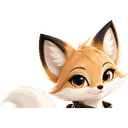
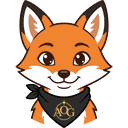
Ganti maskot jadi gaya 2D flat vector dengan pose berbeda tiap halaman

diff --git a/app.py b/app.py
@@ -637,27 +637,30 @@ st.markdown(
       }
 
       /* ---------- Maskot: mengintip di pojok kanan bawah ---------- */
+      /* Pose peek: badan bawah terpotong & kaki memegang tepi, jadi maskot
+         benar-benar muncul dari balik tepi bawah layar. */
       .maskot-peek {
-        position:fixed; right:10px; bottom:86px; z-index:998;
-        width:96px; pointer-events:none;
-        filter: drop-shadow(0 10px 18px rgba(25,27,32,.30));
-        animation: maskotIntip 7s ease-in-out infinite;
+        position:fixed; right:14px; bottom:74px; z-index:1;
+        width:104px; pointer-events:none; user-select:none;
+        filter: drop-shadow(0 -4px 14px rgba(25,27,32,.26));
+        animation: maskotIntip 9s ease-in-out infinite;
         transform-origin: 50% 100%;
       }
       @keyframes maskotIntip {
-        0%, 8%    { transform: translateY(78%) rotate(6deg); opacity:.0; }
-        16%, 46%  { transform: translateY(6%) rotate(0deg);  opacity:1; }
-        54%, 62%  { transform: translateY(0%) rotate(-3deg); opacity:1; }
-        74%, 100% { transform: translateY(78%) rotate(6deg); opacity:0; }
+        0%, 6%    { transform: translateY(100%) rotate(0deg); }
+        14%, 34%  { transform: translateY(14%)  rotate(0deg); }
+        40%, 52%  { transform: translateY(8%)   rotate(-4deg); }
+        58%, 70%  { transform: translateY(14%)  rotate(3deg); }
+        82%, 100% { transform: translateY(100%) rotate(0deg); }
       }
       @media (max-width:600px) {
-        .maskot-peek { width:72px; bottom:78px; right:4px; }
+        .maskot-peek { width:74px; right:2px; bottom:68px; }
         .maskot-sambutan img { width:118px; }
         .maskot-balon { max-width:168px; font-size:.73rem; margin-bottom:26px; }
       }
       @media (prefers-reduced-motion: reduce) {
         .maskot-sambutan img, .maskot-balon { animation:none !important; }
-        .maskot-peek { animation:none !important; transform:translateY(6%); opacity:1; }
+        .maskot-peek { animation:none !important; transform:translateY(14%); }
       }
     </style>
     """,

diff --git a/IKLAN.md b/IKLAN.md
@@ -110,10 +110,13 @@ MASKOT_SAPAAN = "Halo! Aku Aogi, temanmu di room ini. Yuk masuk 👋"
 
 | File | Ukuran | Dipakai untuk |
 |---|---|---|
-| `maskot-avatar.png` | 128×128 | Avatar bulat di bubble chat admin |
-| `maskot-sambutan.png` | 300 px | Maskot menyapa di halaman masuk |
-| `maskot-peek.png` | 220 px | Maskot mengintip di pojok kanan bawah |
-| `maskot.png` | 451×600 | Master transparan, untuk bikin ukuran lain |
+| `maskot-avatar.png` | 128×128 | Avatar bubble chat admin — **pose potret senyum** |
+| `maskot-sambutan.png` | 300 px | Halaman masuk — **pose melambai** |
+| `maskot-peek.png` | 220 px | Pojok kanan bawah room — **pose mengintip** |
+| `maskot.png` | 520 px | Master transparan, untuk bikin ukuran lain |
+
+Gaya gambar: **2D flat vector cartoon** (outline tegas, warna flat), bukan 3D.
+Tiap halaman memakai pose yang berbeda supaya maskot terasa hidup.
 
 Semua sudah **berlatar transparan**. Kalau mau ganti maskot, timpa file-file
 di atas dengan gambar PNG transparan berukuran serupa — kode tidak perlu diubah.
@@ -122,6 +125,7 @@ di atas dengan gambar PNG transparan berukuran serupa — kode tidak perlu diuba
 
 - **Sambutan**: maskot bergoyang pelan (seperti melambai), gelembung ucapan
   muncul menyusul setelah 0,35 detik.
-- **Peek**: maskot naik dari bawah layar, diam sebentar, lalu turun lagi —
-  berulang tiap 7 detik. Tidak bisa diklik, jadi tidak mengganggu tombol.
+- **Peek**: maskot naik dari balik tepi bawah layar, mengintip sambil
+  memiringkan kepala, lalu turun lagi — berulang tiap 9 detik. Tidak bisa
+  diklik dan berada di belakang kolom chat, jadi tidak mengganggu tombol.
 - Pengguna dengan "reduce motion" aktif melihat maskot diam tanpa animasi.
